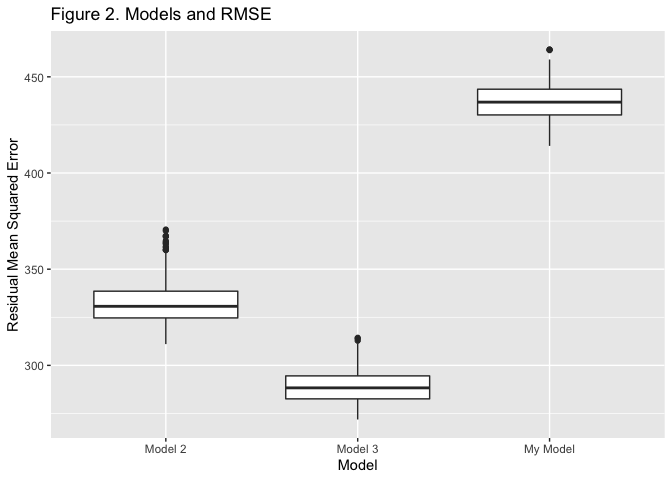
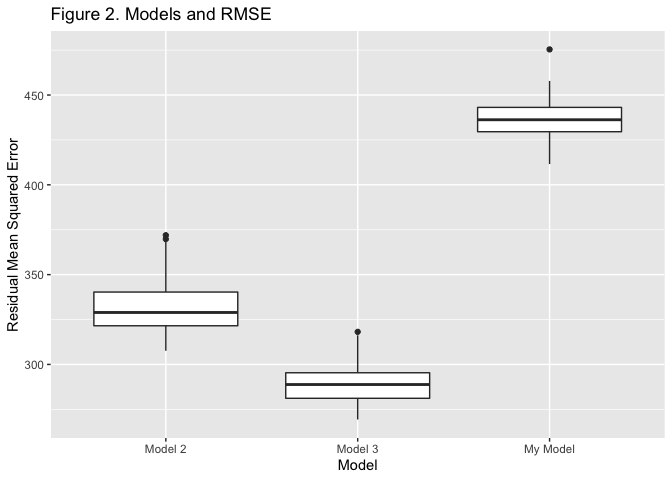
Finished p2

diff --git a/p8105_hw6_az2356.md b/p8105_hw6_az2356.md
@@ -3,7 +3,7 @@ Homework 5
 Amelia Zhao
 2019-11-25
 
-## Problem 1
+# Problem 1
 
 Load and clean data:
 
@@ -69,11 +69,28 @@ all interactions thereof (Figure 2, Model 3).
 
 ![](p8105_hw6_az2356_files/figure-gfm/unnamed-chunk-3-1.png)<!-- -->
 
-# Models
+## Models
 
-As shown in Figure 2, my clinical, maternal-focused model is high in
-prediction error, the highest of the three models. Although there is no
-test and thus no statistical significance, my model clearly has a much
-higher RMSE than the other models.
+As shown in Figure 2, my maternal-focused model is high in prediction
+error, the highest of the three models. Although there is no test and
+thus no statistical significance, my model clearly has a much higher
+RMSE than the other models. This model should not be used to predict
+birthweight.
 
-## Problem 2
+# Problem 2
+
+![](p8105_hw6_az2356_files/figure-gfm/unnamed-chunk-5-1.png)<!-- -->![](p8105_hw6_az2356_files/figure-gfm/unnamed-chunk-5-2.png)<!-- -->
+
+Shown in Figures 3 and 4, the plots of the estimates of beta0\*beta1 and
+R squared are relatively normal. The R squared plot may be slightly
+skewed right, but is mostly normal.
+
+    ##     2.5%    97.5% 
+    ## 1.963788 2.059747
+
+    ##      2.5%     97.5% 
+    ## 0.8943154 0.9274574
+
+log(b0\*b1) 95% Confidence Interval: 1.965, 2.059
+
+R squared 95% Confidence Interval: 0.894, 0.927
